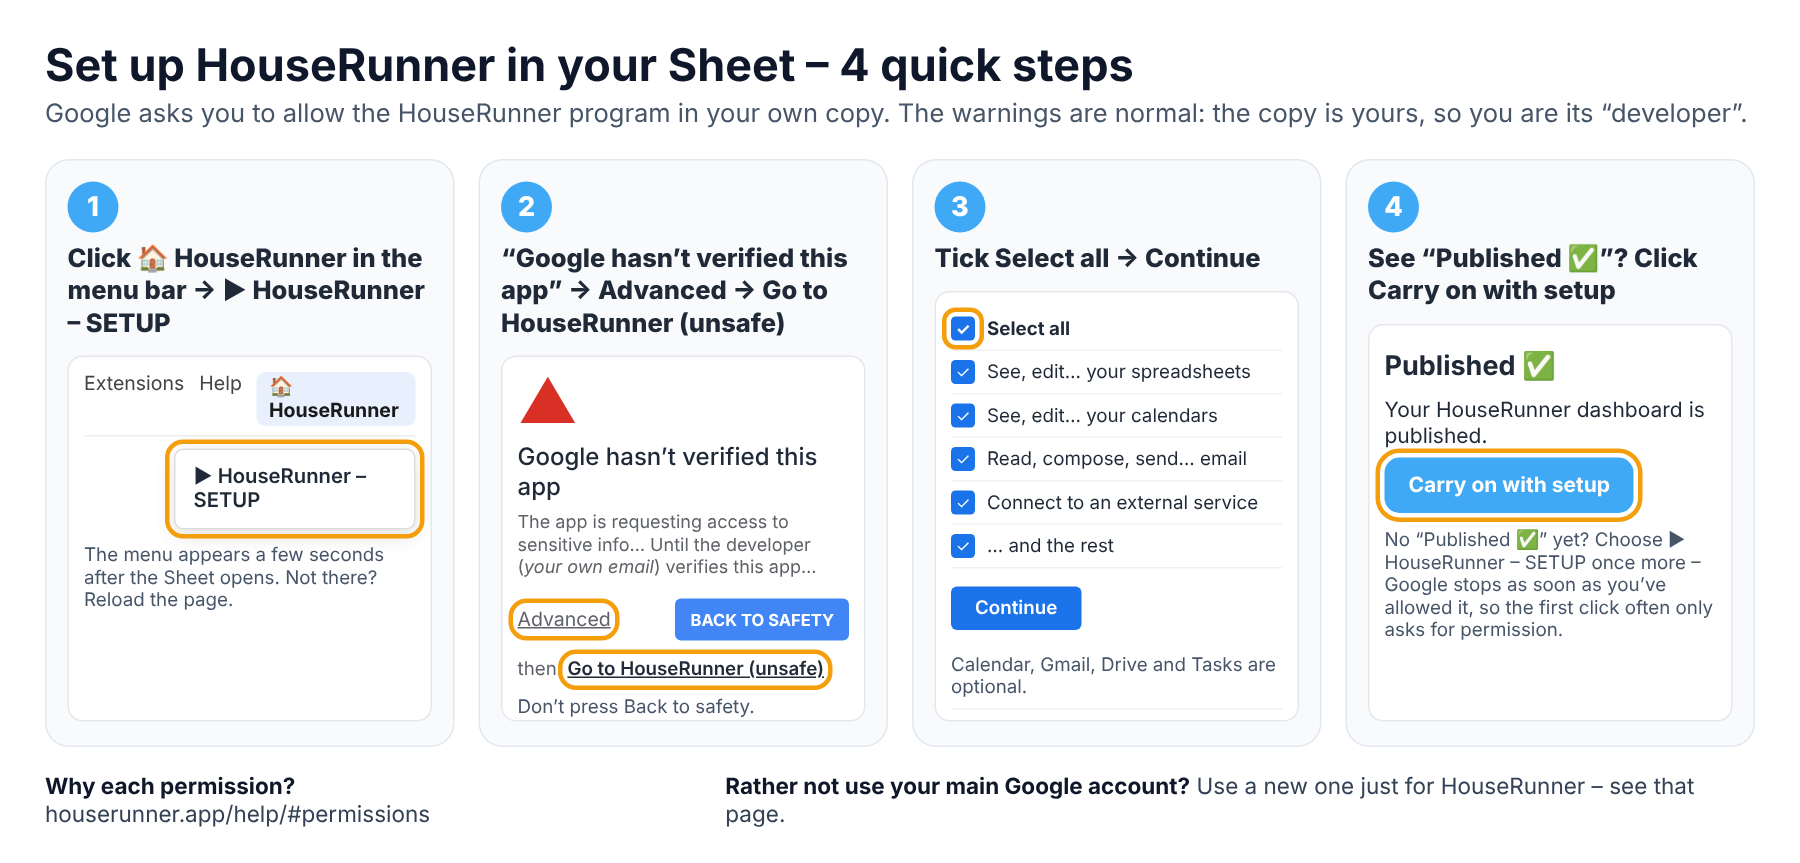
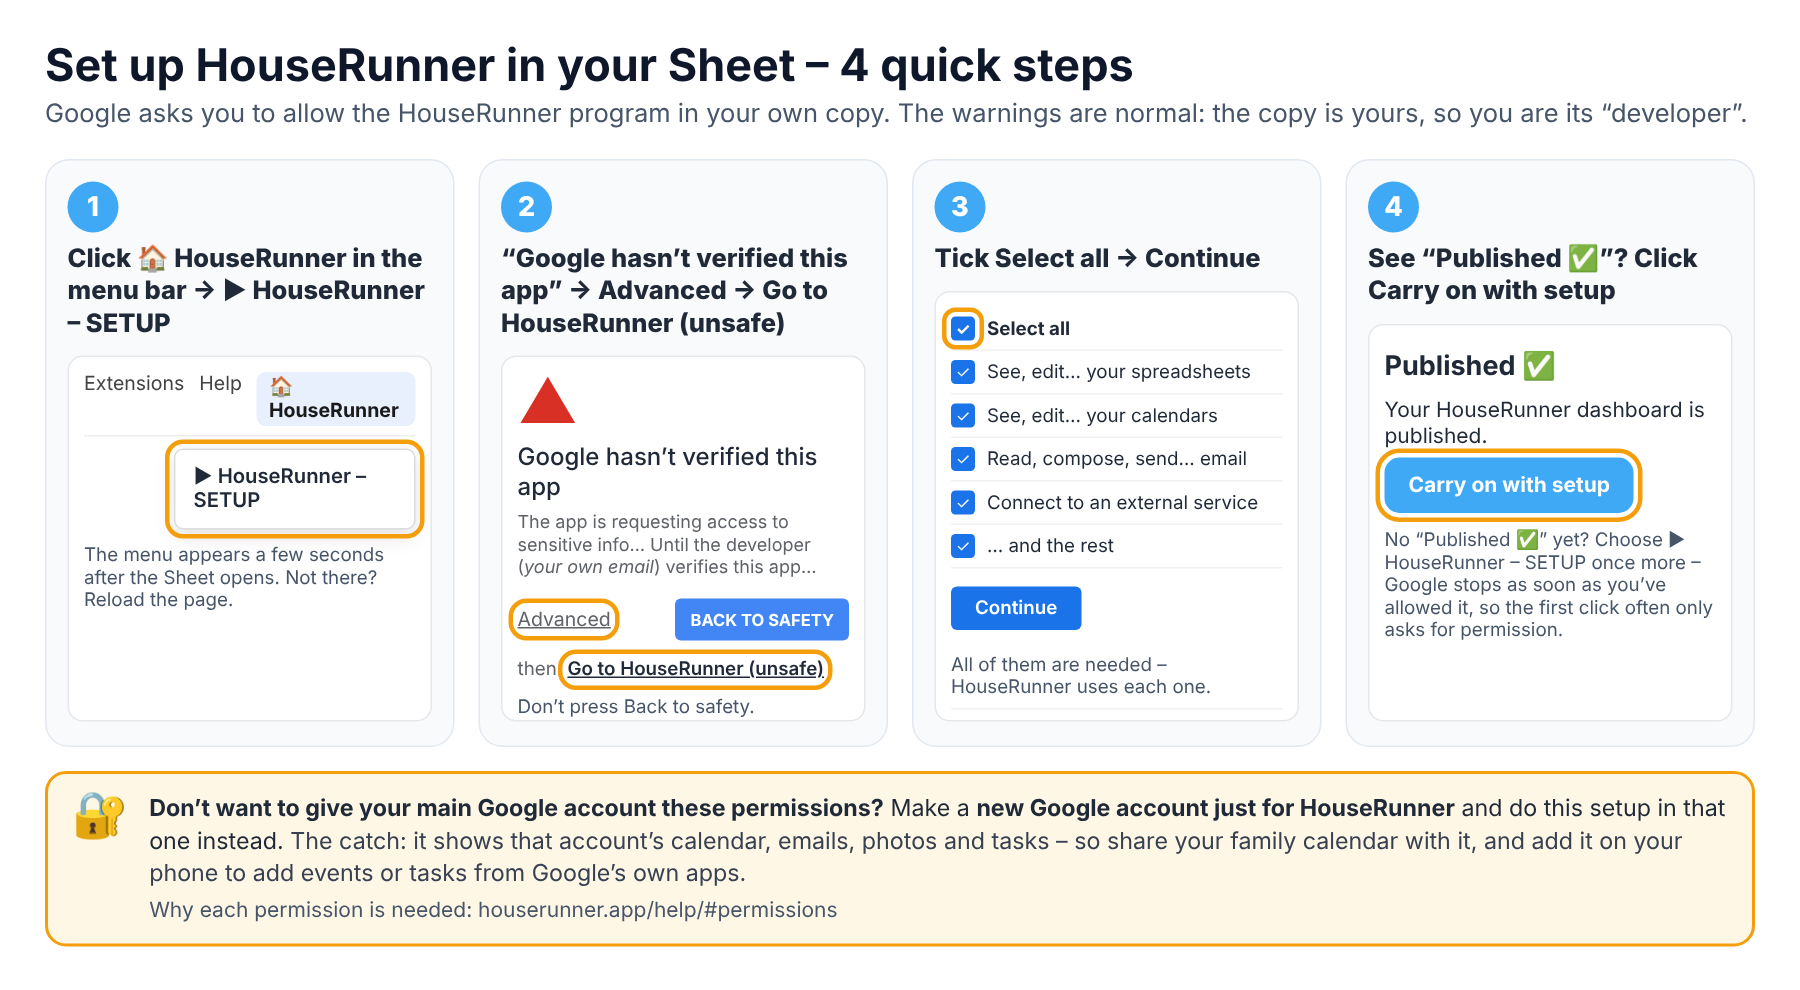
2026.11.255: all permissions required
Claude-Session: https://claude.ai/code/session_01R2kV4GW3UVFR51NzUKtdLQ

Changed region(s): [[0.0, 0.1808, 0.9956, 0.9641], [0.0311, 0.1808, 0.2489, 0.7231], [0.0, 0.0301, 0.9644, 0.1506]]

diff --git a/setup/guide/setup.js b/setup/guide/setup.js
@@ -10,22 +10,22 @@
     var S = load();
     var $ = function (id) { return document.getElementById(id); };
     function load() { try { return JSON.parse(localStorage.getItem(KEY) || '{}'); } catch (e) { return {}; } }
-    /** What Google asks to allow, which are needed and which are optional (Google now lets people untick some). */
+    /** What Google asks to allow, and why each is needed (Google lets people untick some; setup asks again). */
     function whyPerms() {
         return '<div class="card perms"><h3>A note on the permissions</h3><p class="mute">Google lists what HouseRunner may do. It all runs as you, inside your own Google account – nobody else, including us, gets access. ' +
-            'Google may show a tick box for each one: <b>Select all</b> is simplest.</p>' +
-            '<p><b>Needed</b> – leave these ticked, or setup can’t work:</p><ul class="mute">' +
+            'Google may show a tick box for each one: click <b>Select all</b>.</p>' +
+            '<p><b>All of them are needed</b> – please leave every box ticked (setup asks again for any that aren’t):</p><ul class="mute">' +
             '<li><b>Spreadsheets</b> – your family’s information is kept in your own Sheet.</li>' +
-            '<li><b>Connect to an external service</b> – fetching the HouseRunner program, and live information (weather, trains, traffic…), and the licence check.</li>' +
-            '<li><b>Display and run third-party web content</b> – the 🏠 HouseRunner menu in your Sheet.</li>' +
-            '<li><b>Run when you’re not present</b> – the timers that keep it up to date and check the licence each day.</li>' +
-            '<li><b>Create and update Apps Script projects and deployments</b> – so it can publish itself, without you using Google’s Deploy screens.</li></ul>' +
-            '<p><b>Optional</b> – untick any you don’t want; only the part named stops working, and says why:</p><ul class="mute">' +
-            '<li><b>Google Calendar</b> – the calendar, birthdays and holiday countdown.</li>' +
-            '<li><b>Gmail</b> – the <b>Parcels</b> widget (finds delivery emails) and emailing you a backup of your private links. Google only offers “read, send and delete” together; HouseRunner never deletes anything.</li>' +
+            '<li><b>Google Calendar</b> – the calendar, adding events, birthdays and the holiday countdown.</li>' +
+            '<li><b>Gmail</b> – the <b>Parcels</b> widget (finds delivery emails) and emailing you a backup of your private links. Google only offers “read, send and delete” together; HouseRunner never deletes or changes your email.</li>' +
             '<li><b>Google Drive (see files)</b> – the <b>Photo slideshow</b> from a folder you choose.</li>' +
-            '<li><b>Google Tasks</b> – the <b>To-Do List (Google)</b>.</li></ul>' +
-            '<p class="mute small">Changed your mind later? In your Sheet choose 🏠 HouseRunner → <b>Allow more permissions</b>, and Google asks for any you left out.</p></div>';
+            '<li><b>Google Tasks</b> – the <b>To-Do List (Google)</b>.</li>' +
+            '<li><b>Connect to an external service</b> – fetching the HouseRunner program, live information (weather, trains, traffic…) and the licence check.</li>' +
+            '<li><b>Display content in prompts and sidebars</b> – the 🏠 HouseRunner menu in your Sheet. <b>Run when you’re not present</b> – the timers that keep it up to date.</li>' +
+            '<li><b>Create and update Apps Script projects and deployments</b> – so it can publish itself, without you using Google’s Deploy screens.</li></ul>' +
+            '<div class="note warn"><b>Don’t want to give your main Google account these permissions?</b> Make a <a href="https://accounts.google.com/signup" target="_blank" rel="noopener">new Google account just for HouseRunner</a> and do this setup signed in to that one. ' +
+            'The catch: it shows that account’s calendar, emails, photos and tasks – so share your family calendar with it, and add it on your phone to add events or tasks from Google’s own apps.</div>' +
+            '</div>';
     }
     function save() { try { localStorage.setItem(KEY, JSON.stringify(S)); } catch (e) { /* ignore */ } }
     function esc(s) { return String(s == null ? '' : s).replace(/[&<>"']/g, function (c) { return { '&': '&amp;', '<': '&lt;', '>': '&gt;', '"': '&quot;', "'": '&#39;' }[c]; }); }
@@ -171,8 +171,8 @@
                     '<p class="mute small">No licence key yet? That’s fine – you get a 14-day free trial and can add it later. No display yet? You can try the dashboard in another tab on this computer.</p></div>' +
                 '<div class="note"><h3>🔐 Before you start: Google will ask for permissions</h3>' +
                     '<p>HouseRunner runs as a small program in a Google Sheet in <b>your</b> Google account, so Google asks you to allow it to use parts of that account – Sheets, Calendar, Gmail (for the Parcels widget), Drive (for photos), Tasks. ' +
-                    'Google shows a red “Google hasn’t verified this app” page on the way: that’s normal for your own private copy. When it lists the permissions, <b>Select all</b> is simplest. ' +
-                    '<a href="../../help/#permissions" target="_blank" rel="noopener">What each permission is for, and which are optional ›</a></p>' +
+                    'Google shows a red “Google hasn’t verified this app” page on the way: that’s normal for your own private copy. When it lists the permissions, click <b>Select all</b> – HouseRunner needs every one. ' +
+                    '<a href="../../help/#permissions" target="_blank" rel="noopener">Why each permission is needed ›</a></p>' +
                     '<p><b>Rather keep it away from your main Google account?</b> You can <a href="https://accounts.google.com/signup" target="_blank" rel="noopener">make a new Google account</a> just for HouseRunner, and do this whole setup signed in to that one. ' +
                     'The catch: the calendar, Gmail parcels, photos and Google Tasks it shows are that account’s, not your main one’s – so share your family calendar with the new account (Google Calendar → Settings → Share with specific people), ' +
                     'and to add events or tasks from your phone’s own Google apps, add the new account on your phone too. HouseRunner’s own phone apps work either way.</p></div>' +

diff --git a/help/topics.js b/help/topics.js
@@ -13,29 +13,25 @@ window.FD_HELP = [
   },
   {
     id: 'permissions', icon: '🔐', title: 'Google permissions: what they’re for',
-    summary: 'What Google asks you to allow when you set up HouseRunner, why, which are optional – and using a separate Google account.',
+    summary: 'What Google asks you to allow when you set up HouseRunner, why each is needed – and using a separate Google account instead.',
     body: `
 <p>HouseRunner’s program runs inside a Google Sheet in <b>your own Google account</b>, as you. Google asks you to allow what it uses. Nobody else – including us – gets access to your account.</p>
 <h2>“Google hasn’t verified this app”</h2>
 <p>On the way, Google shows a red ⚠ page saying the developer – <b>your own email address</b> – hasn’t had the app verified. That’s normal: the copy is yours, so Google counts you as its developer. Click <b>Advanced</b> (small, bottom left) → <b>Go to HouseRunner (unsafe)</b>. Don’t press <b>Back to safety</b>.</p>
-<h2>Needed – leave these ticked</h2>
+<h2>All of them are needed – click Select all</h2>
 <ul>
 <li><b>See, edit, create and delete your spreadsheets</b> – your family’s information is kept in your own Sheet; setup also makes backup copies.</li>
+<li><b>Google Calendar</b> – the calendar screen, adding events, Today &amp; tomorrow, birthdays and the holiday countdown.</li>
+<li><b>Gmail</b> (“read, compose, send and permanently delete”) – the <b>Parcels</b> widget looks for delivery emails, and HouseRunner emails you a backup of your private links. Google only offers this all-in-one permission; HouseRunner never deletes or changes your email.</li>
+<li><b>Google Drive</b> (see and download files) – the <b>Photo slideshow</b> from a folder you choose. Read only.</li>
+<li><b>Google Tasks</b> – the <b>To-Do List (Google)</b>.</li>
 <li><b>Connect to an external service</b> – downloading the HouseRunner program, live information (weather, trains, buses, traffic, flights, news) and the daily licence check.</li>
 <li><b>Display and run third-party web content in prompts and sidebars</b> – the 🏠 HouseRunner menu and its windows in your Sheet.</li>
 <li><b>Allow this application to run when you are not present</b> – the timers that keep it up to date and check the licence.</li>
 <li><b>Create and update Google Apps Script projects and deployments</b> – so it can publish itself, without you using Google’s Deploy screens.</li>
 </ul>
-<h2>Optional – untick any you don’t want</h2>
-<p>Only the part named stops working, and it says so on the screen. Everything else carries on.</p>
-<ul>
-<li><b>Google Calendar</b> – the calendar screen, adding events, birthdays and the holiday countdown.</li>
-<li><b>Gmail</b> (“read, compose, send and permanently delete”) – the <b>Parcels</b> widget looks for delivery emails, and HouseRunner emails you a backup of your private links. Google only offers this all-in-one permission; HouseRunner never deletes or changes your email.</li>
-<li><b>Google Drive</b> (see and download files) – the <b>Photo slideshow</b> from a folder you choose. Read only.</li>
-<li><b>Google Tasks</b> – the <b>To-Do List (Google)</b>.</li>
-</ul>
-<p>Changed your mind? In your Sheet choose <b>🏠 HouseRunner → Allow more permissions</b> and Google asks again for any you left out. To take permissions away: <a href="https://myaccount.google.com/connections" target="_blank" rel="noopener">myaccount.google.com → Your connections to third-party apps</a>.</p>
-<h2>Using a separate Google account</h2>
+<p>If one is unticked, ▶ HouseRunner – SETUP asks again until all are allowed. If one is taken away later, only the part that needs it stops, and says which permission it needs.</p>
+<h2>Rather not give your main Google account these permissions? Use a separate one</h2>
 <p>If you’d rather not give your main Google account these permissions, make a <a href="https://accounts.google.com/signup" target="_blank" rel="noopener">new Google account</a> just for HouseRunner and do the setup signed in to it. The catch: the calendar, parcels, photos and tasks it shows are that account’s. Share your family calendar with the new account (Google Calendar → ⚙ Settings → your calendar → <b>Share with specific people</b>, “Make changes to events”), and add the new account on your phone if you want to add events or tasks from Google’s own apps. HouseRunner’s phone apps work either way.</p>
 `
   },

diff --git a/index.html b/index.html
@@ -24,11 +24,11 @@
         window.FD_DESK = true; window.FD_PHONE = !!phone;
     })();
     </script>
-    <link rel="stylesheet" href="shared/base.css?v=202611254">
-    <link rel="stylesheet" href="admin/admin.css?v=202611254">
-    <link rel="stylesheet" href="setup/desk.css?v=202611254">
-    <link rel="stylesheet" href="setup/editor.css?v=202611254">
-    <link rel="stylesheet" href="admin/phone.css?v=202611254">
+    <link rel="stylesheet" href="shared/base.css?v=202611255">
+    <link rel="stylesheet" href="admin/admin.css?v=202611255">
+    <link rel="stylesheet" href="setup/desk.css?v=202611255">
+    <link rel="stylesheet" href="setup/editor.css?v=202611255">
+    <link rel="stylesheet" href="admin/phone.css?v=202611255">
     <style>
 #landing { min-height: 100vh; }
 #landing .ld-wrap { max-width: 1100px; margin: 0 auto; padding: 30px 18px 50px; }
@@ -192,20 +192,20 @@
     </div></div>
     <!-- Connected: houserunner.app (computer) or Family Admin (phone) – the same app. -->
     <div id="app"></div>
-    <script src="shared/storecheck.js?v=202611254"></script>
-    <script src="shared/fd.js?v=202611254"></script>
-    <script src="dashboard/scripts/platform.js?v=202611254"></script>
-    <script src="shared/pair.js?v=202611254"></script>
-    <script src="shared/qrcode.js?v=202611254"></script>
-    <script src="shared/privacy.js?v=202611254"></script>
-    <script src="shared/countries.js?v=202611254"></script>
-    <script src="setup/config.js?v=202611254"></script>
-    <script src="help/topics.js?v=202611254"></script>
-    <script src="setup/editor.js?v=202611254"></script>
-    <script src="setup/calsetup.js?v=202611254"></script>
-    <script src="shared/icons.js?v=202611254"></script>
+    <script src="shared/storecheck.js?v=202611255"></script>
+    <script src="shared/fd.js?v=202611255"></script>
+    <script src="dashboard/scripts/platform.js?v=202611255"></script>
+    <script src="shared/pair.js?v=202611255"></script>
+    <script src="shared/qrcode.js?v=202611255"></script>
+    <script src="shared/privacy.js?v=202611255"></script>
+    <script src="shared/countries.js?v=202611255"></script>
+    <script src="setup/config.js?v=202611255"></script>
+    <script src="help/topics.js?v=202611255"></script>
+    <script src="setup/editor.js?v=202611255"></script>
+    <script src="setup/calsetup.js?v=202611255"></script>
+    <script src="shared/icons.js?v=202611255"></script>
     <!-- A phone gets Family Admin, written for the phone; a computer houserunner.app. -->
-    <script>document.write('<script src="admin/' + (window.FD_PHONE ? 'phone' : 'app') + '.js?v=202611254"><\/script>');</script>
+    <script>document.write('<script src="admin/' + (window.FD_PHONE ? 'phone' : 'app') + '.js?v=202611255"><\/script>');</script>
 <script>
  (function () {
    'use strict';

diff --git a/setup/guide/index.html b/setup/guide/index.html
@@ -6,8 +6,8 @@
     <title>HouseRunner Setup</title>
     <meta name="theme-color" content="#0c0e12">
     <link rel="icon" href="../../shared/brand/icon-192.png"><link rel="apple-touch-icon" href="../../shared/brand/apple-touch-icon.png">
-    <link rel="stylesheet" href="../editor.css?v=202611254">
-    <link rel="stylesheet" href="setup.css?v=202611254">
+    <link rel="stylesheet" href="../editor.css?v=202611255">
+    <link rel="stylesheet" href="setup.css?v=202611255">
 </head>
 <body>
     <header class="cfg-top"><a class="cfg-title hr-title" href="../../"><img src="../../shared/brand/mark.svg" alt="" class="hr-mini"><span>House<span class="hr-acc">Runner</span></span></a><a class="cfg-dash" href="../../dashboard/" target="_blank" rel="noopener">▶ Dashboard</a><a class="cfg-help" href="../../help/" target="_blank" rel="noopener">❓ Help</a></header>
@@ -29,8 +29,8 @@
     <script src="../../shared/countries.js"></script>
     <script src="../../shared/pair.js"></script>
     <script src="../../shared/qrcode.js"></script>
-    <script src="../calsetup.js?v=202611254"></script>
-    <script src="../../shared/storecheck.js?v=202611254"></script>
-    <script src="setup.js?v=202611254"></script>
+    <script src="../calsetup.js?v=202611255"></script>
+    <script src="../../shared/storecheck.js?v=202611255"></script>
+    <script src="setup.js?v=202611255"></script>
 </body>
 </html>

diff --git a/sw.js b/sw.js
@@ -1,6 +1,6 @@
 /* Keeps houserunner.app (the Configurator / Family Admin) available offline. Family data always comes live from Google.
  * The screen, the Family Calendar app and the licence pages look after themselves, so they're left alone here. */
-const CACHE = 'root-v107';
+const CACHE = 'root-v108';
 const FILES = ["./", "index.html", "manifest.webmanifest", "admin/app.js", "admin/phone.js", "admin/phone.css", "admin/admin.css", "admin/icons/icon-192.png", "setup/desk.css", "setup/editor.css", "setup/editor.js", "setup/calsetup.js", "setup/config.js",
   "help/topics.js", "shared/fd.js", "shared/head.js", "shared/storecheck.js", "shared/move.js", "shared/base.css", "shared/brand/mark.svg", "shared/privacy.js", "shared/countries.js", "shared/icons.js", "shared/pair.js", "shared/qrcode.js"];
 const OWN = /^\/(screen|dashboard|calendar|licencing|windows|downloads|Scripts)\//;

diff --git a/admin/sw.js b/admin/sw.js
@@ -1,5 +1,5 @@
 /* Keeps the app itself available offline. Calendar and points data always come live from Google. */
-const CACHE = 'admin-v256';
+const CACHE = 'admin-v257';
 const FILES = ["./", "index.html", "app.js", "admin.css", "manifest.webmanifest", "icons/icon-192.png", "../shared/fd.js", "../shared/storecheck.js", "../shared/move.js", "../shared/base.css", "../shared/brand/symbol.svg", "../shared/privacy.js", "../shared/countries.js", "../shared/pair.js", "../shared/qrcode.js"];
 self.addEventListener('install', e => { e.waitUntil(caches.open(CACHE).then(c => c.addAll(FILES)).then(() => self.skipWaiting())); });
 self.addEventListener('activate', e => { e.waitUntil(caches.keys().then(ks => Promise.all(ks.filter(k => k.startsWith('admin-') && k !== CACHE).map(k => caches.delete(k)))).then(() => self.clients.claim())); });

diff --git a/calendar/sw.js b/calendar/sw.js
@@ -1,5 +1,5 @@
 /* Keeps the app itself available offline. Calendar and points data always come live from Google. */
-const CACHE = 'calendar-v244';
+const CACHE = 'calendar-v245';
 const FILES = ["./", "index.html", "app.js", "calendar.css", "manifest.webmanifest", "icons/icon-192.png", "../shared/fd.js", "../shared/storecheck.js", "../shared/move.js", "../shared/base.css", "../shared/brand/symbol.svg", "../shared/pair.js", "../shared/qrcode.js"];
 self.addEventListener('install', e => { e.waitUntil(caches.open(CACHE).then(c => c.addAll(FILES)).then(() => self.skipWaiting())); });
 self.addEventListener('activate', e => { e.waitUntil(caches.keys().then(ks => Promise.all(ks.filter(k => k.startsWith('calendar-') && k !== CACHE).map(k => caches.delete(k)))).then(() => self.clients.claim())); });

diff --git a/shared/fd.js b/shared/fd.js
@@ -191,7 +191,7 @@
         clearConfig: function () { cfg = {}; try { localStorage.removeItem(KEY); } catch (e) { /* ignore */ } },
         parseSetup: parseSetup,
 
-        VERSION: '2026.11.254',     // the phone apps' version (same number as the screen's)
+        VERSION: '2026.11.255',     // the phone apps' version (same number as the screen's)
         get: function (action, params, timeout) {
             var q = 'action=' + encodeURIComponent(action) + '&code=' + encodeURIComponent(cfg.code) + '&t=' + Date.now();
             Object.keys(params || {}).forEach(function (k) { q += '&' + k + '=' + encodeURIComponent(params[k]); });

diff --git a/dashboard/scripts/notices.js b/dashboard/scripts/notices.js
@@ -6,7 +6,7 @@
  */
 (function () {
     'use strict';
-    var APP_VERSION = '2026.11.254';
+    var APP_VERSION = '2026.11.255';
     var SNOOZE_KEY = 'familyDashboard.updateSnooze', SCRIPT_KEY = 'familyDashboard.scriptNag';
     var latest = null, lastLayout = null, privacyOpen = false, lastTouch = Date.now(), updating = false;
     var IDLE_MS = 3 * 60000;
